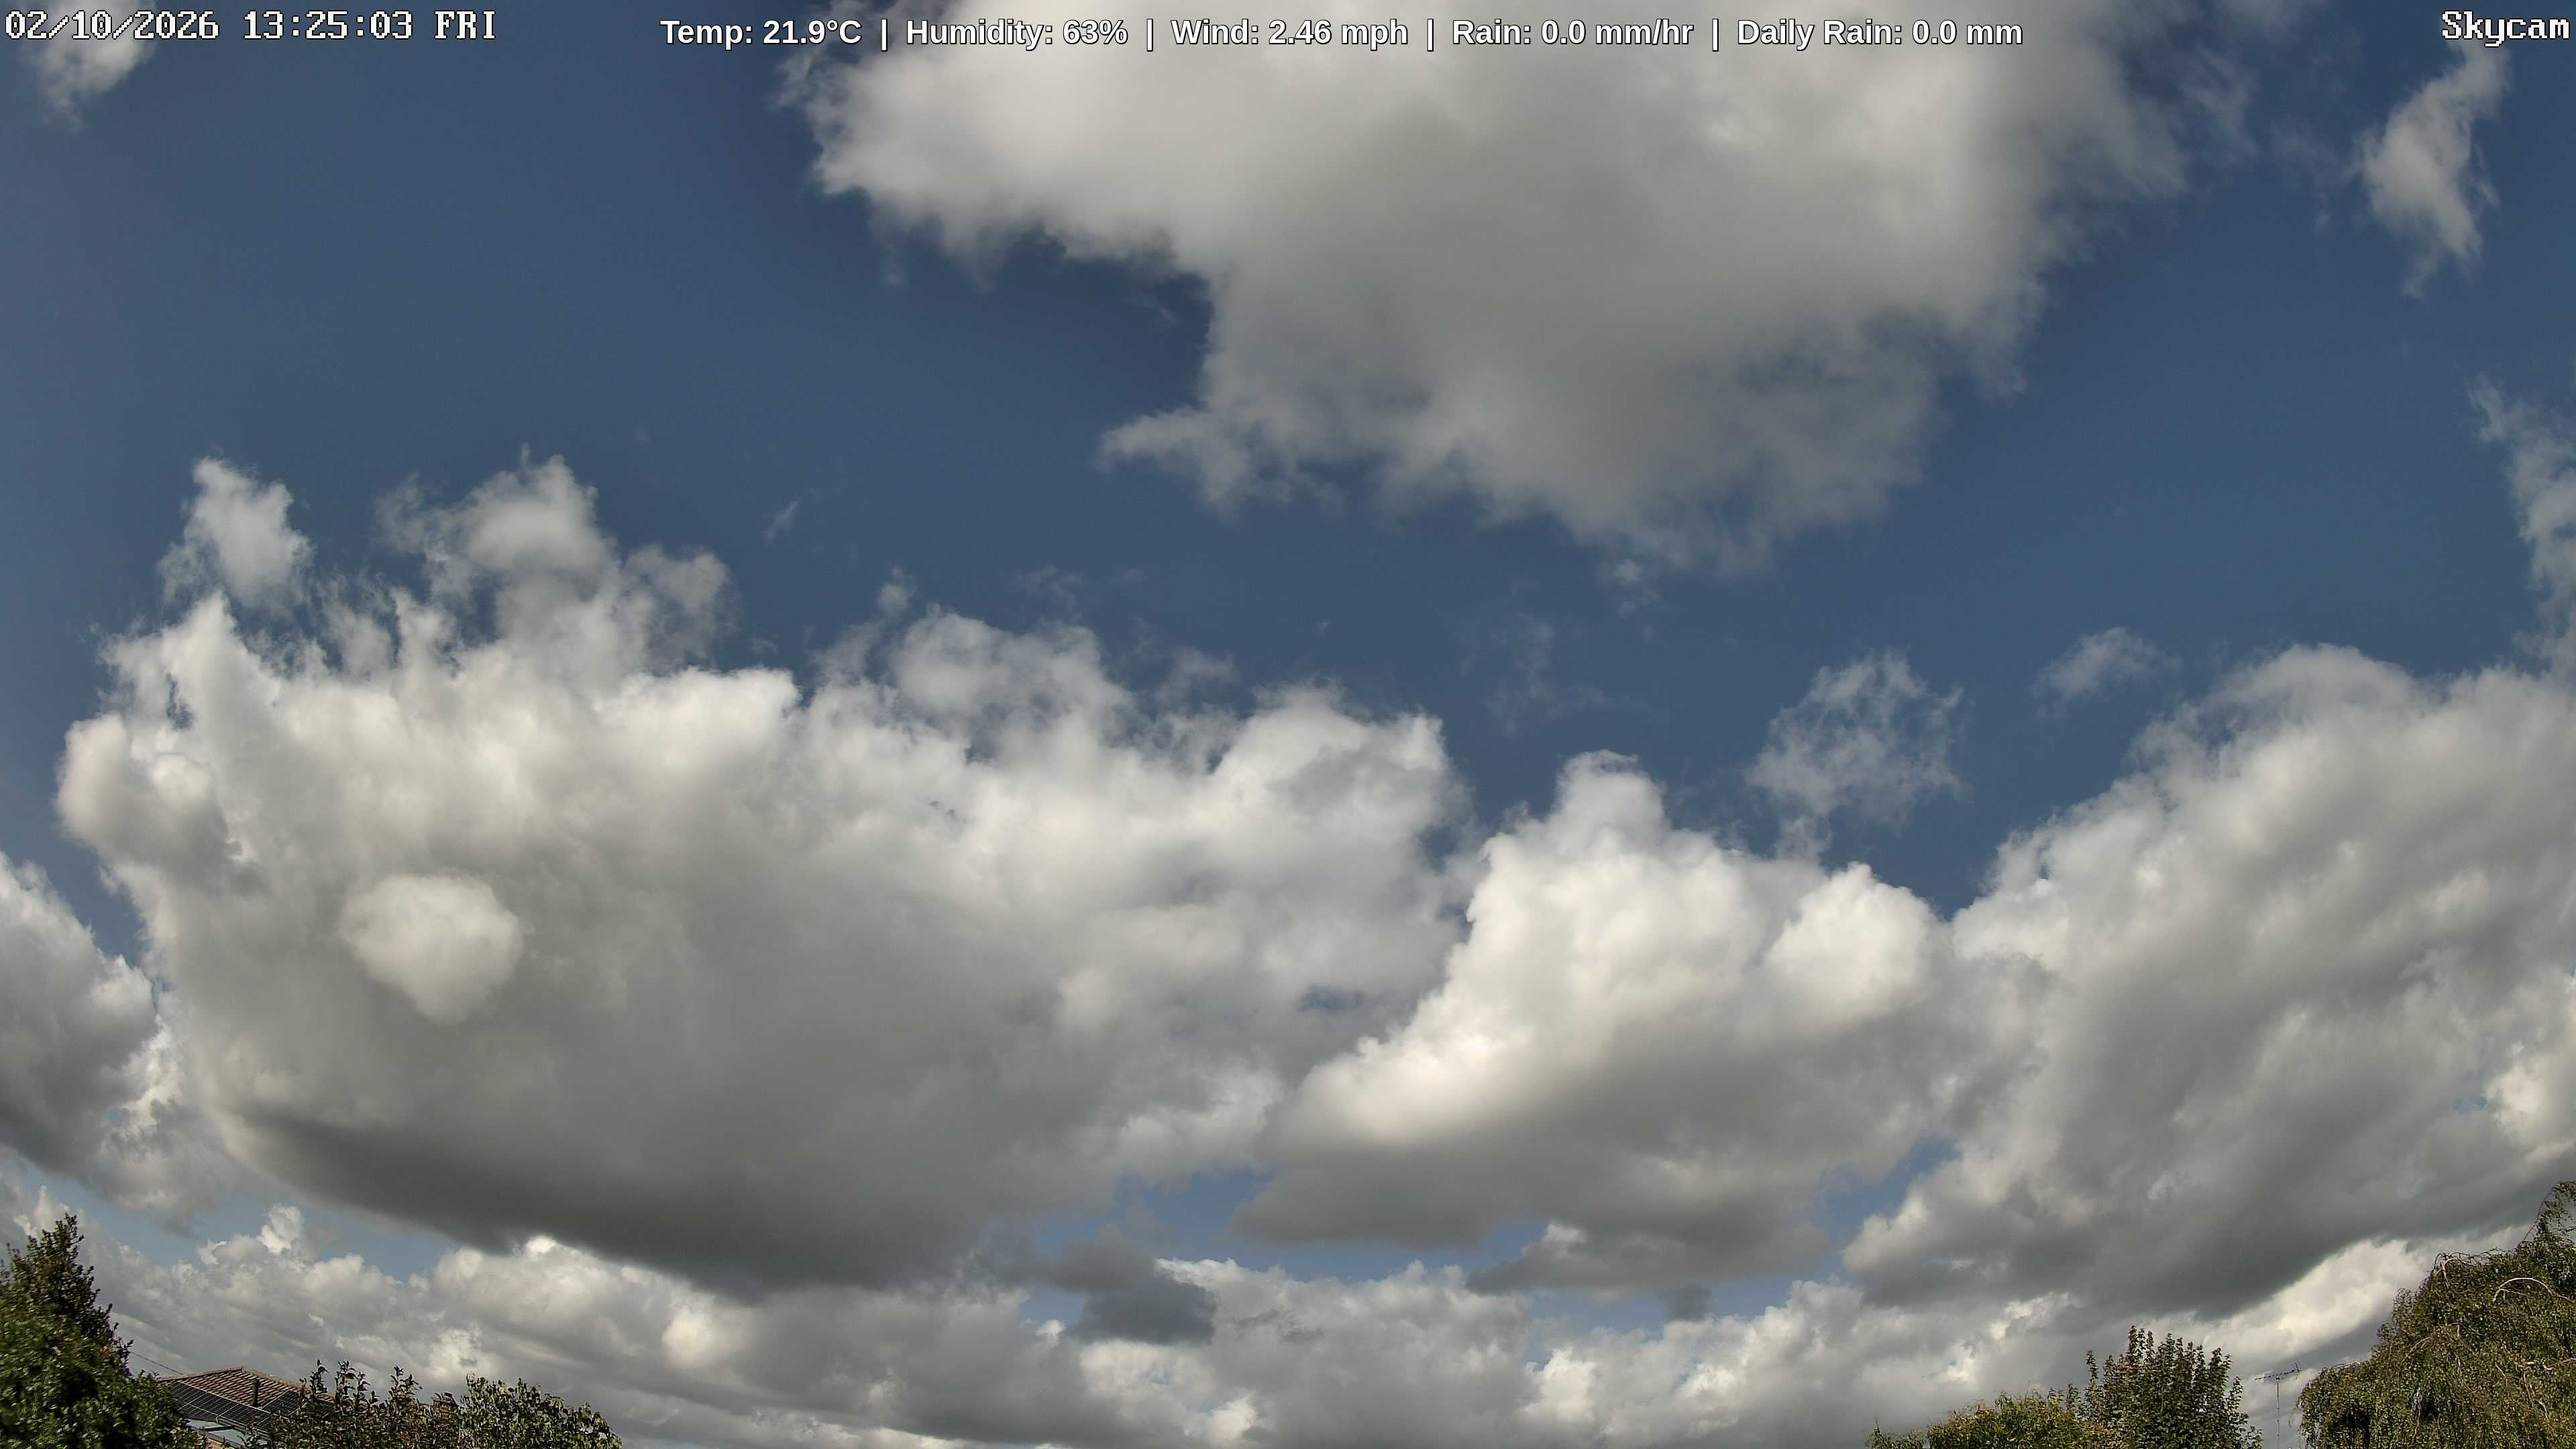
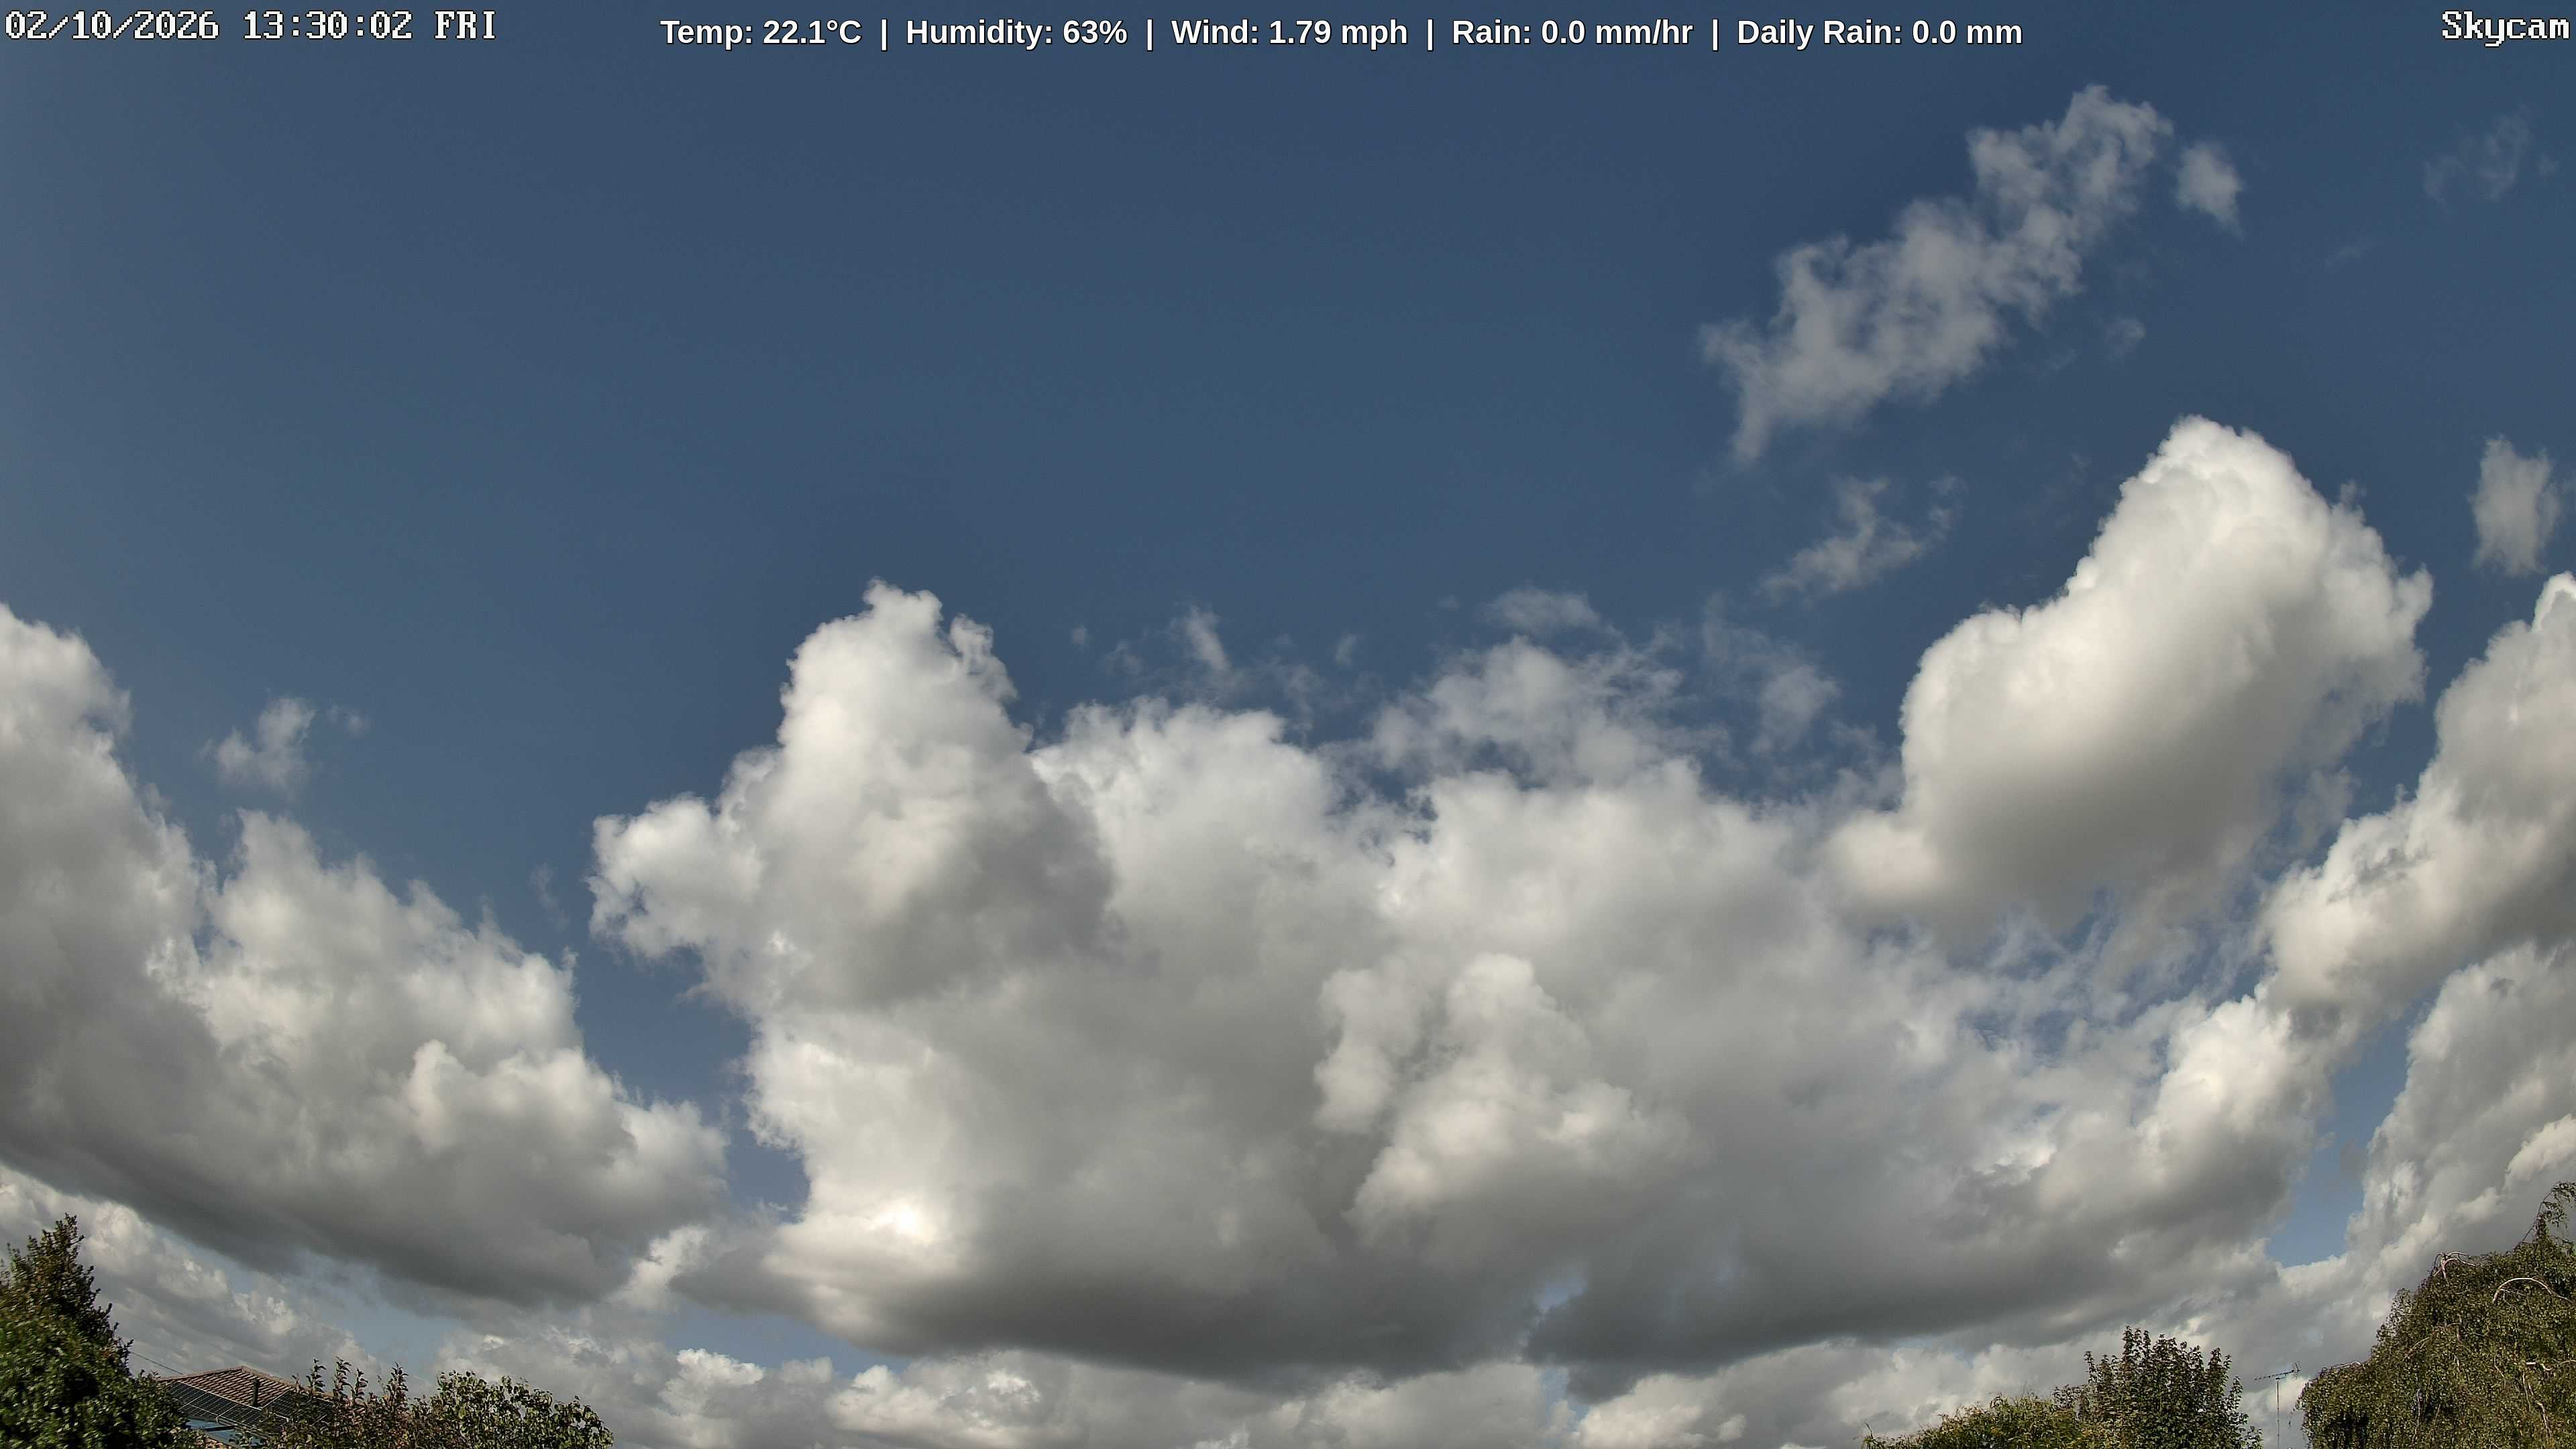
Update weather cam image with synchronized dual-layer weather metrics

diff --git a/index.html b/index.html
@@ -32,7 +32,7 @@
 </head>
 <body>
     <img id="weathercam" alt="Live Weather Snapshot">
-    <div class="banner">Temp: 21.9°C  |  Humidity: 63%  |  Wind: 2.46 mph  |  Rain: 0.0 mm/hr  |  Daily Rain: 0.0 mm</div>
+    <div class="banner">Temp: 22.1°C  |  Humidity: 63%  |  Wind: 1.79 mph  |  Rain: 0.0 mm/hr  |  Daily Rain: 0.0 mm</div>
 
     <script>
         // Shatter mobile cache engines by appending a live unique runtime timestamp 
